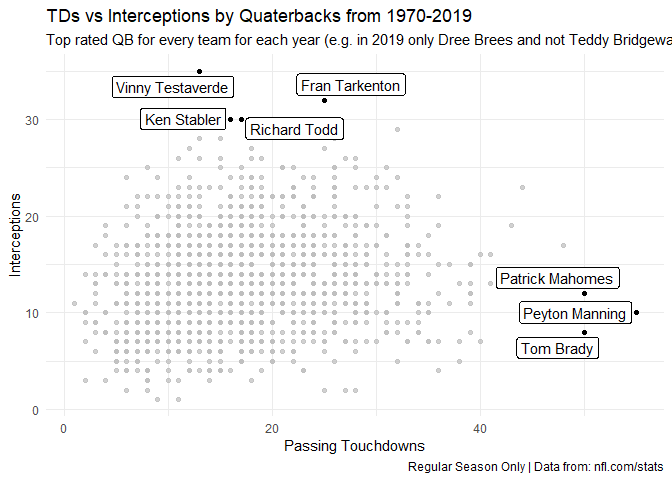
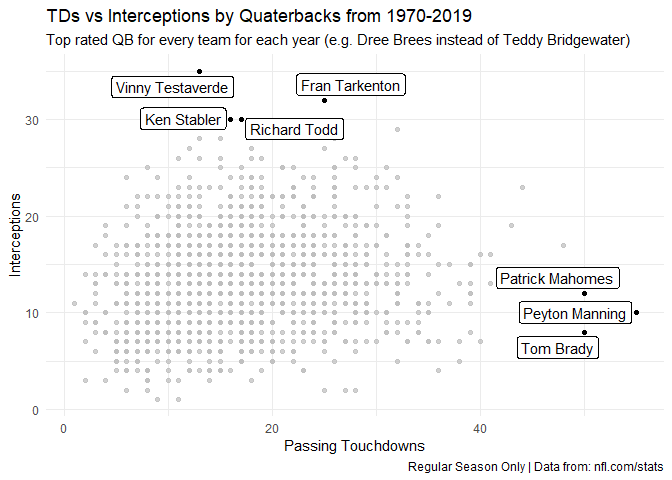
Reducing subtitle length to fit

diff --git a/JameisWinston.md b/JameisWinston.md
@@ -39,7 +39,7 @@ Plot TD vs Ints
 ggplot(QBData, aes(x = TD, y = Int)) +
   geom_jitter(position=position_jitter(h=0.1, w=0.1), alpha = 0.3) +
   labs(title = "Passing TDs vs Interceptions by Quaterbacks from 1970-2019",
-             subtitle = 'Top rated QB for every team for each year (e.g. in 2019 only Dree Brees and not Teddy Bridgewater)', 
+             subtitle = 'Top rated QB for every team for each year (e.g. Dree Brees instead of Teddy Bridgewater)', 
        caption = 'Regular Season only | Data from: nfl.com/stats',
        y = 'Interceptions',
        x = 'Passing Touchdowns') +
@@ -55,7 +55,7 @@ ggplot(QBData, aes(x = TD, y = Int)) +
 ggplot(QBData, aes(x = TD, y = Int)) +
   geom_point(alpha = 0.2) +
   labs(title = "Passing TDs vs Interceptions by Quaterbacks from 1970-2019",
-             subtitle = 'Top rated QB for every team for each year (e.g. in 2019 only Dree Brees and not Teddy Bridgewater)', 
+             subtitle = 'Top rated QB for every team for each year (e.g. Dree Brees instead of Teddy Bridgewater)', 
        caption = 'Regular Season only | Data from: nfl.com/stats',
        y = 'Interceptions',
        x = 'Passing Touchdowns') +
@@ -73,7 +73,7 @@ Who were the other top Int/TD players?
 gghighlight_point(QBData, aes(x = TD, y = Int), 
                   predicate = c(TD >= 50 | Int >= 30), label = Player) +
   labs(title = "TDs vs Interceptions by Quaterbacks from 1970-2019",
-             subtitle = 'Top rated QB for every team for each year (e.g. in 2019 only Dree Brees and not Teddy Bridgewater', 
+             subtitle = 'Top rated QB for every team for each year (e.g. Dree Brees instead of Teddy Bridgewater)', 
        caption = 'Regular Season Only | Data from: nfl.com/stats',
        y = 'Interceptions',
        x = 'Passing Touchdowns') +
@@ -88,7 +88,7 @@ Plotting passing yards vs interceptions.
 ggplot(QBData, aes(x = Yds, y = Int)) +
   geom_point(alpha = 0.3) +
   labs(title = "Passing Yards vs Interceptions by Quaterbacks from 1970-2019",
-             subtitle = 'Top rated QB for every team for each year (e.g. in 2019 only Dree Brees and not Teddy Bridgewater)', 
+             subtitle = 'Top rated QB for every team for each year (e.g. Dree Brees instead of Teddy Bridgewater)', 
        caption = 'Regular Season Only | Data from: nfl.com/stats',
        y = 'Interceptions',
        x = 'Passing Yards') +
@@ -105,7 +105,7 @@ Who were the other unique players?
 gghighlight_point(QBData, aes(x = Yds, y = Int), 
                   predicate = c(Yds >= 5400 | Int >= 30), label = Player) +
   labs(title = "Passing Yards vs Interceptions by Quaterbacks from 1970-2019",
-             subtitle = 'Top rated QB for every team for each year (e.g. in 2019 only Dree Brees and not Teddy Bridgewater)', 
+             subtitle = 'Top rated QB for every team for each year (e.g. Dree Brees instead of Teddy Bridgewater)', 
        caption = 'Regular Season Only | Data from: nfl.com/stats',
        y = 'Interceptions',
        x = 'Passing Yards') +
